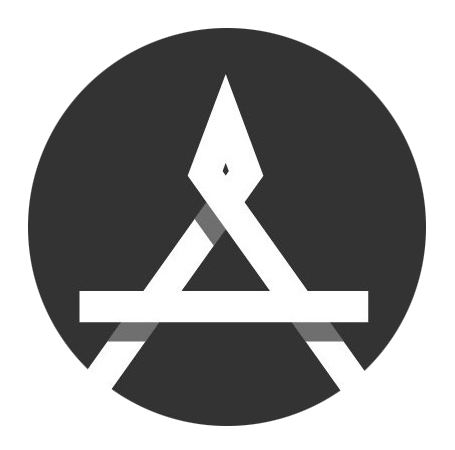
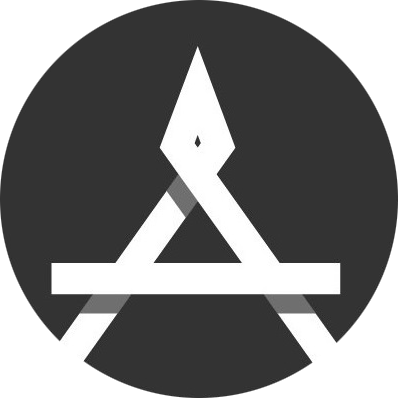
centered and overflowed

diff --git a/style.css b/style.css
@@ -1,11 +1,28 @@
-.aw-white{
-	float: left;
+body{
+	height: 100vh;
 }
 .aw-white img{
-	height: 200px;
-	width: 200px;
+	height: 100px;
+	width: 100px;
+}
+.aw-white{
+	float: left;
+	width: 50px;
+	overflow: hidden;
 }
 .aw-black img{
-	height: 200px;
-	width: 200px;
+	height: 100px;
+	width: 100px;
+}
+.aw-black{
+	width: 50px;
+	overflow: hidden;
+	direction: rtl;
+}
+.main{
+	position: absolute;
+	top: 50%;
+    left: 50%;
+    margin-right: -50%;
+    transform: translate(-50%, -50%);
 }

diff --git a/adalweb.html b/adalweb.html
@@ -17,11 +17,13 @@
   </script>
 </head>
 <body style="background: black">
+	<div class="main">
 		<div class="aw-white">
 			<img src="white.png">
 		</div>
 		<div class="aw-black">
 			<img src="black.png">
 		</div>
+	</div>
 </body>
 </html>
